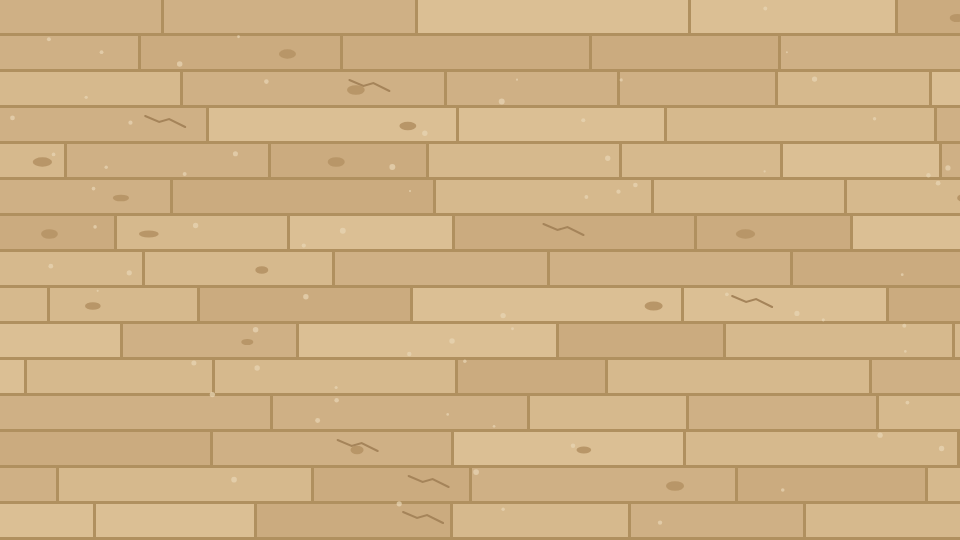
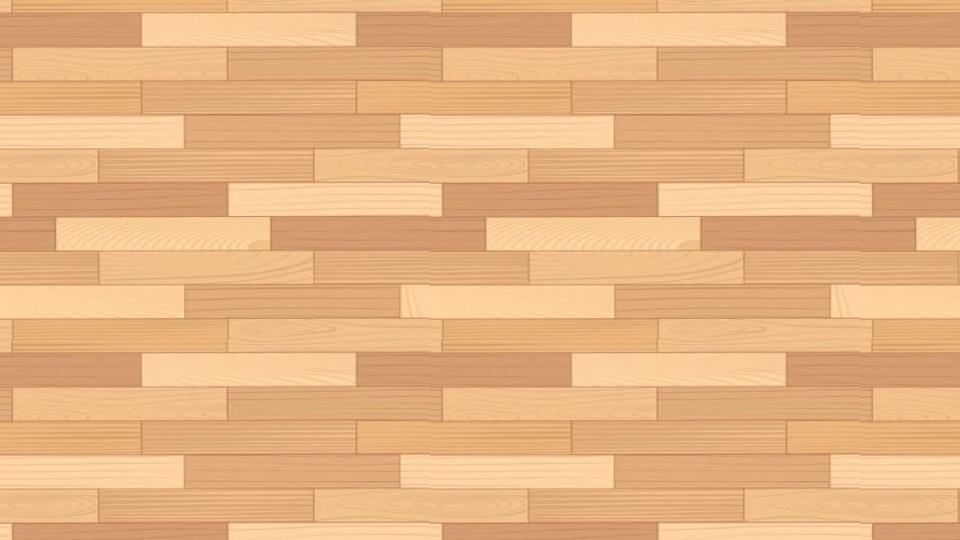
🏫 폐교 바닥을 새 나무 바닥 그림으로 바꾸기
보내 준 나무 바닥 그림은 여러 장을 이어 붙인 자국이 보여서,
자국 없는 한 조각(430×340)을 잘라 이음매 없이 960×540으로 이어 붙임.

Claude-Session: https://claude.ai/code/session_01NCVQy8Kf6zrBU9Mq9Kn8tK

diff --git a/images/README.md b/images/README.md
@@ -43,9 +43,11 @@
 ## 🖌 지금 들어 있는 그림 (2026-11-19, 원팀이 Canva로 만든 그림 25장)
 - 흰 배경을 지우고(투명), 그림 위 이름 글씨를 빼고, 게임에 맞는 크기로 줄였어요.
 - 친구 옷 색은 게임의 문·버튼 색에 맞게 바꿨어요: 세은 멜빵바지 → 🟢연두, 다영 멜빵바지 → 🟡노랑, 태준 티셔츠 → 🔴빨강
+- `floor-school.png` (🏫 폐교 나무 바닥)은 2026-11-21에 원팀이 보내 준 나무 바닥 그림으로 바꿨어요. 이어 붙인 자국이 보여서, 자국 없는 한 조각을 잘라 이음매 없이 이어 붙였어요.
 - 원팀 그림이 없던 8장은 원팀 그림 느낌에 맞춰 Claude가 그렸어요 (언제든 우리 그림으로 바꿔도 돼요):
-  `start-bg.png` (원팀 시작 화면 구도: 하늘 · 구름 · 갈색 뾰족 언덕 · 연두 잔디 + 비행기 · 학교), `floor-plane.png`, `floor-school.png`,
+  `start-bg.png` (원팀 시작 화면 구도: 하늘 · 구름 · 갈색 뾰족 언덕 · 연두 잔디 + 비행기 · 학교), `floor-plane.png`,
   `furniture-clock.png`, `lock.png`, `door-exit-school.png`, `furniture-board-plane.png`, `furniture-chair-plane.png` (원팀 좌석 그림을 남색으로 칠함)
+  (처음엔 `floor-school.png`도 Claude 그림이었는데 원팀 그림으로 바뀌었어요)
 - 인터넷에서 가져온 그림이 있다면 어디서 가져왔는지 여기에 적어 두세요: (출처: )
 
 > 바닥 그림 위에 **벽은 게임이 따로 그려요** (부딪히는 곳이라서). 바닥 그림에는 벽을 안 그려도 돼요.
